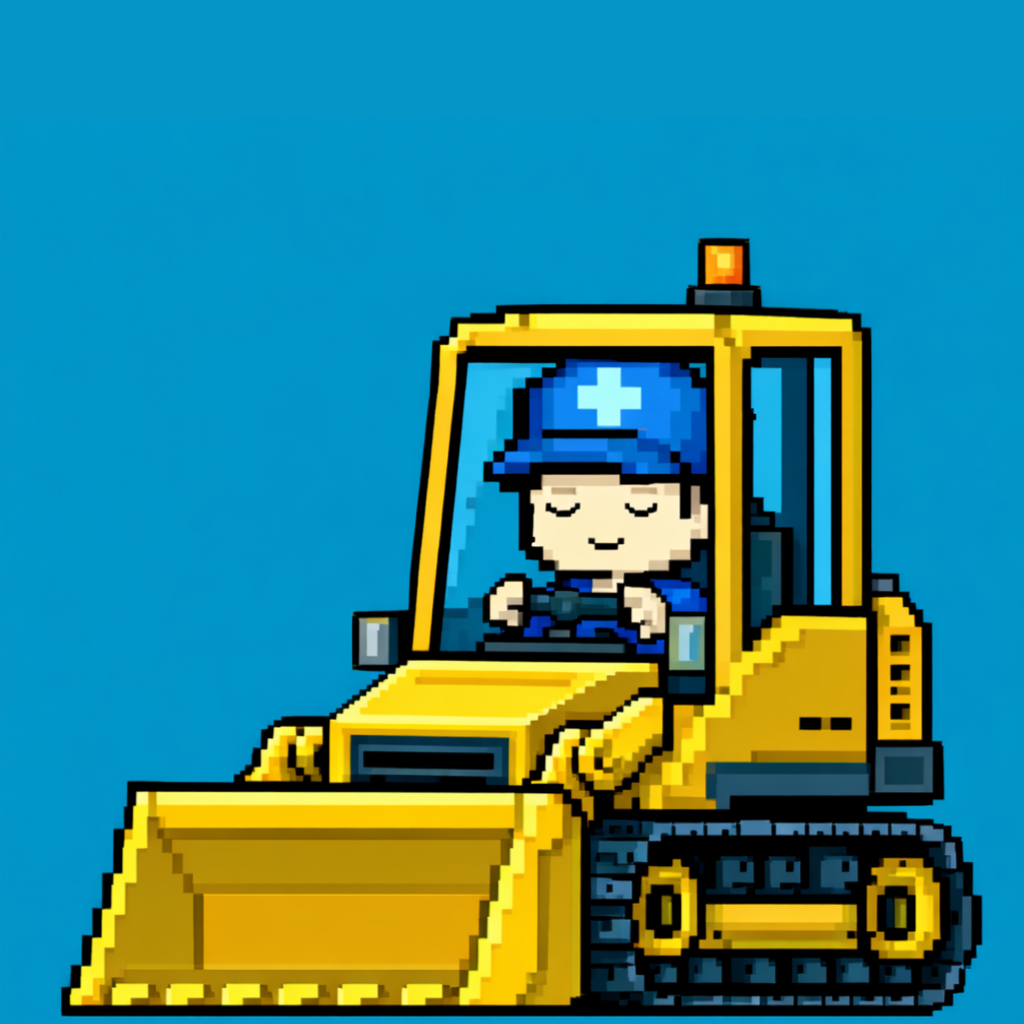
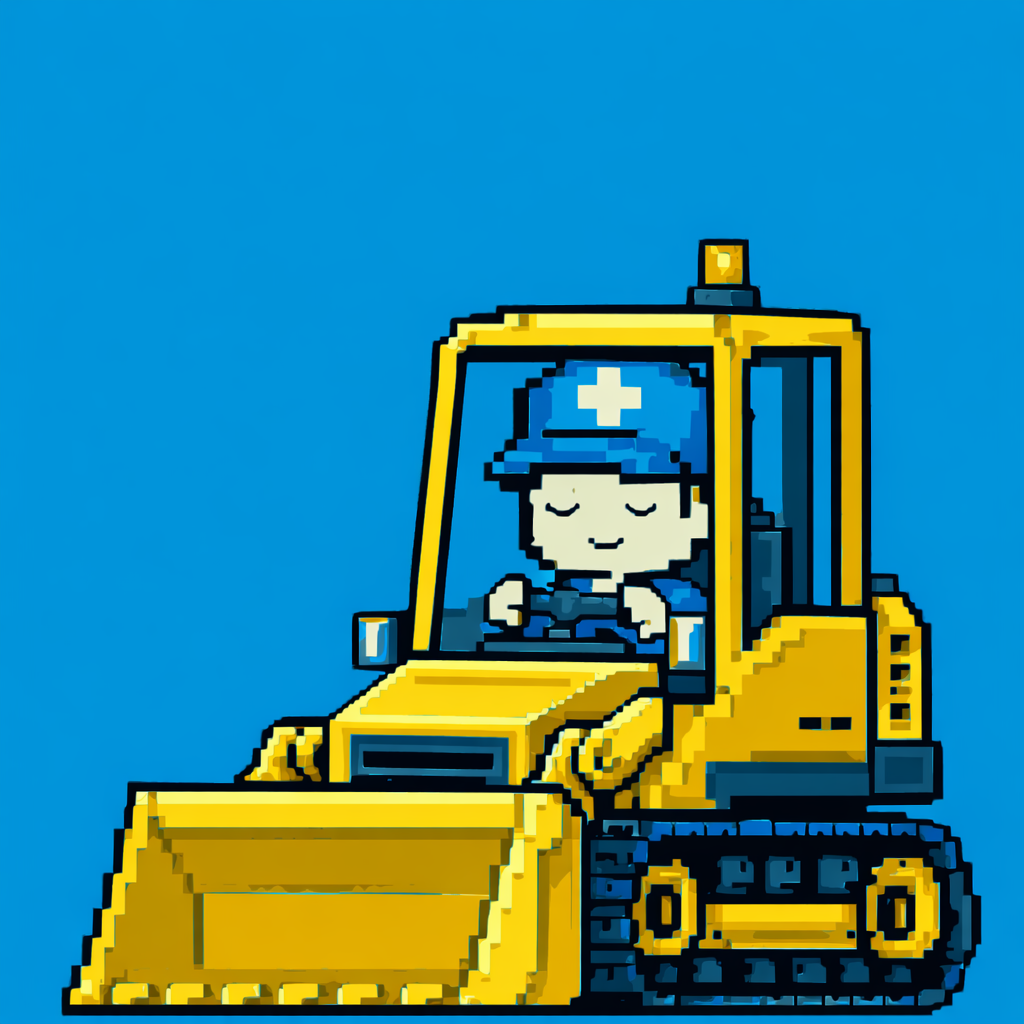
image retouch

Changed region(s): [[0.0625, 0.2188, 0.9688, 1.0], [0.25, 0.8438, 0.3125, 0.875], [0.7812, 0.6875, 0.8125, 0.7188]]

diff --git a/static/bulldozer_animation.html b/static/bulldozer_animation.html
@@ -64,6 +64,7 @@
     display: flex;
     flex-direction: row;
     align-items: flex-end;
+    background-color: #0595c7ff;
   }
 
   .billdozer_animation {
@@ -103,23 +104,23 @@
 
     <!-- Column 1 -->
     <div class="billdozer_animation">
-      <img src="images/avatars/billie__eyes_open__billdozer_down.png" />
-      <img src="images/avatars/billie__eyes_open__billdozer_up.png" />
-      <img src="images/avatars/billie__eyes_open__billdozer_down.png" />
+      <img src="images/avatars/transparent/billie__eyes_open__billdozer_down.png" />
+      <img src="images/avatars/transparent/billie__eyes_open__billdozer_up.png" />
+      <img src="images/avatars/transparent/billie__eyes_open__billdozer_down.png" />
     </div>
 
     <!-- Column 2 -->
     <div class="billdozer_animation">
-      <img src="images/avatars/envelop_rest.png" />
-      <img src="images/avatars/envelop_falling_1.png" />
-      <img src="images/avatars/envelop_falling_2.png" />
+      <img src="images/avatars/transparent/envelop_rest.png" />
+      <img src="images/avatars/transparent/envelop_falling_1.png" />
+      <img src="images/avatars/transparent/envelop_falling_2.png" />
     </div>
 
     <!-- Column 3 -->
     <div class="billdozer_animation">
-      <img src="images/avatars/billy__eyes_closed__billdozer_down.png" />
-      <img src="images/avatars/billy__eyes_open__billdozer_down.png" />
-      <img src="images/avatars/billy__eyes_open__billdozer_up.png" />
+      <img src="images/avatars/transparent/billy__eyes_closed__billdozer_down.png" />
+      <img src="images/avatars/transparent/billy__eyes_open__billdozer_down.png" />
+      <img src="images/avatars/transparent/billy__eyes_open__billdozer_up.png" />
     </div>
 
   </div>
